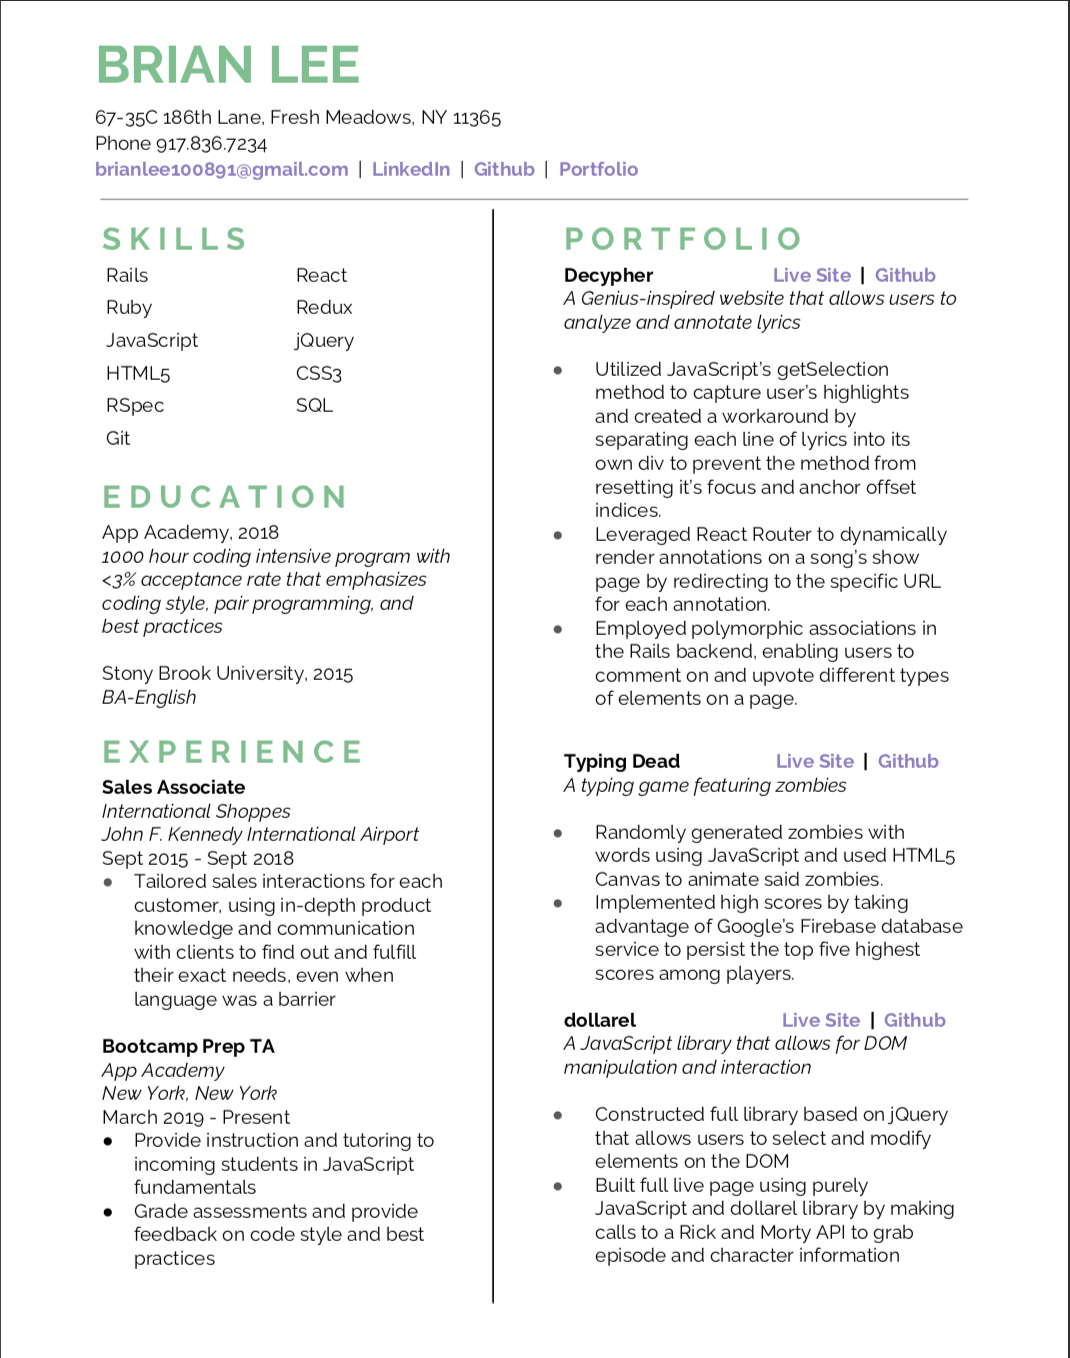
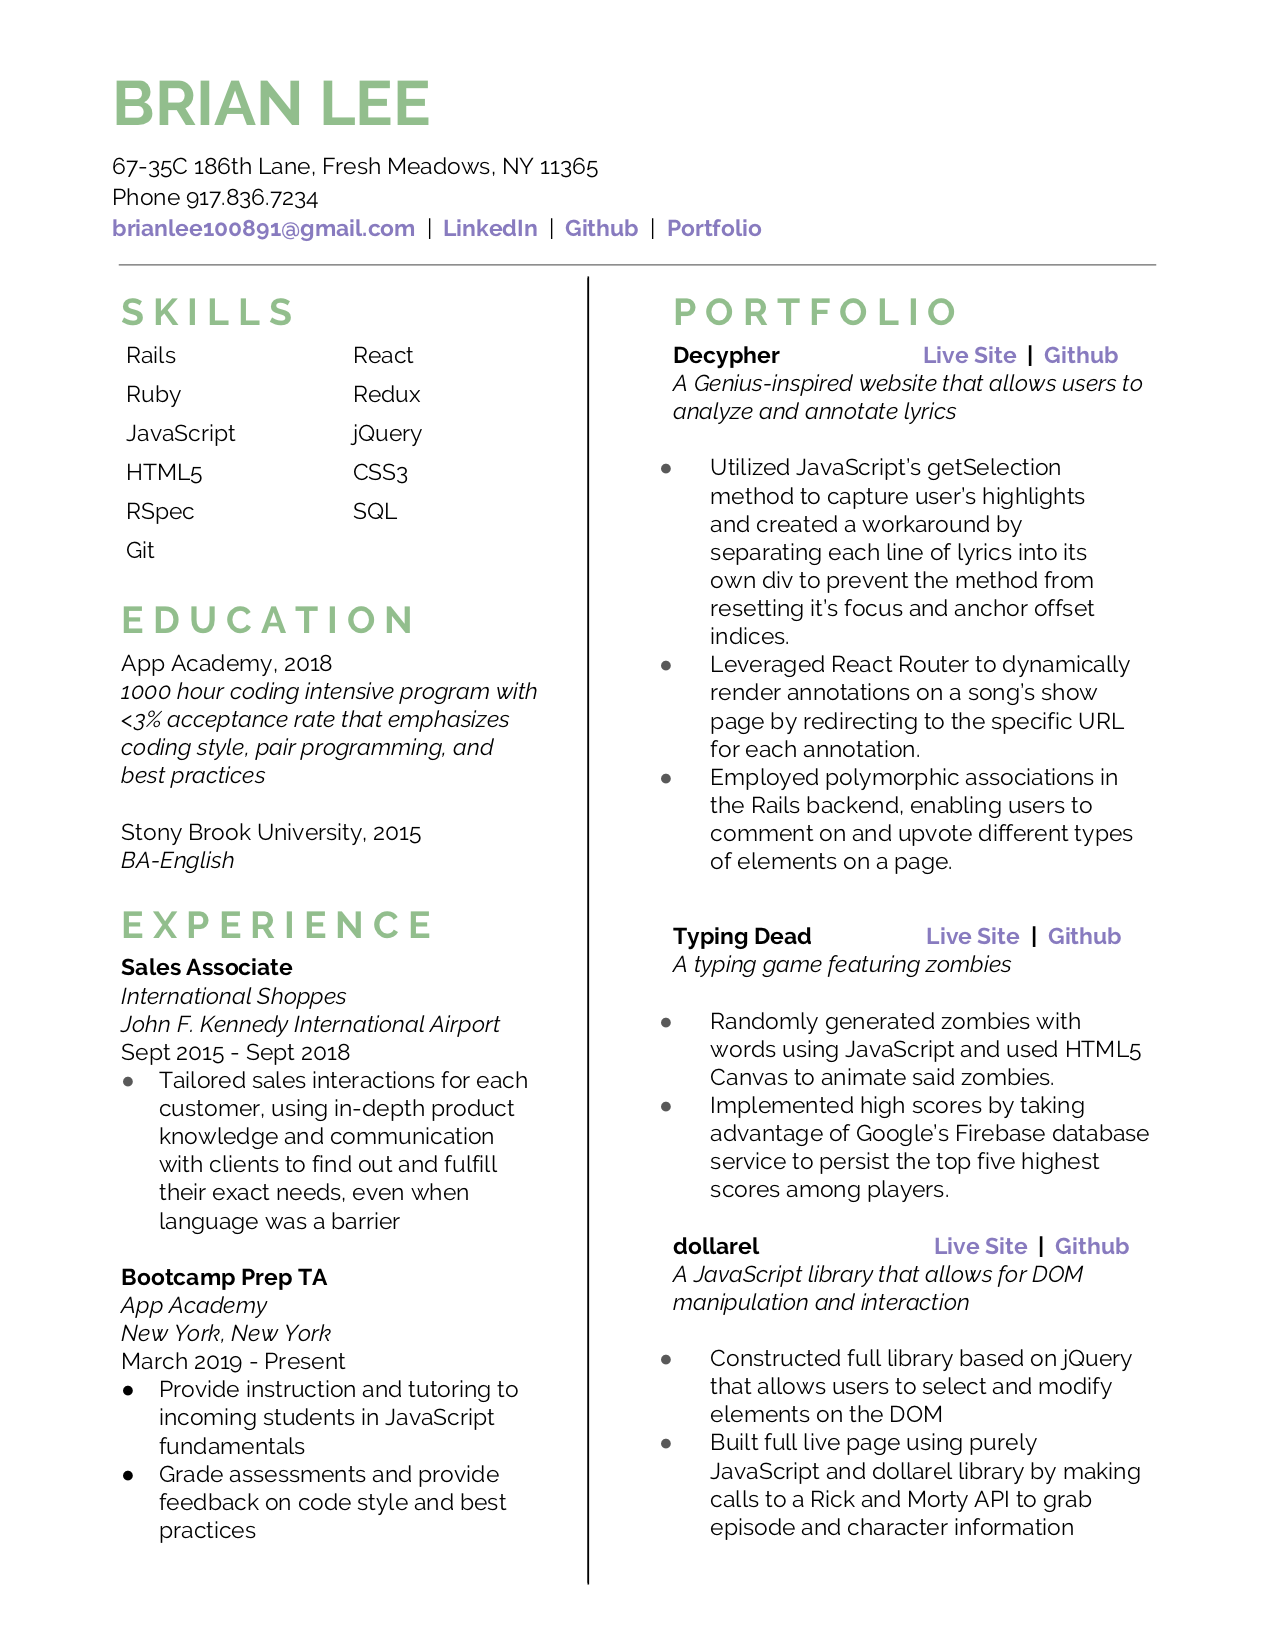
Fix image and styling

Changed region(s): [[0.0925, 0.0309, 0.8944, 0.9278], [0.5243, 0.5567, 0.8944, 0.9278], [0.9869, 0.0, 1.0, 1.0]]

diff --git a/index.html b/index.html
@@ -183,7 +183,7 @@
 									<h2>Resume</h2>
 								</header>
 								<main>
-									<a href="assets/Brian_Lee_Resume.pdf">
+									<a href="assets/Brian_Lee_Resume.pdf" class="resume-link">
 										<img src="assets/resume_screenshot.png" height="250"></img>
 									</a>
 								</main>

diff --git a/assets/css/main.css b/assets/css/main.css
@@ -2616,6 +2616,10 @@ input, select, textarea {
 		text-align: center;
 	}
 
+	.resume-link {
+		border: none;
+	}
+
 	header.major {
 		margin-bottom: 3em;
 	}
